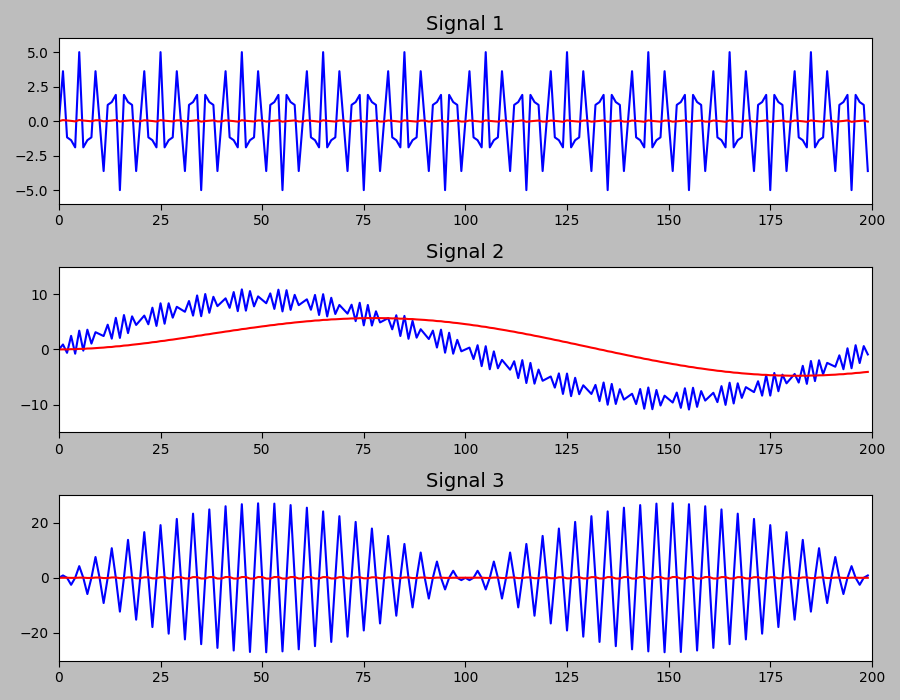
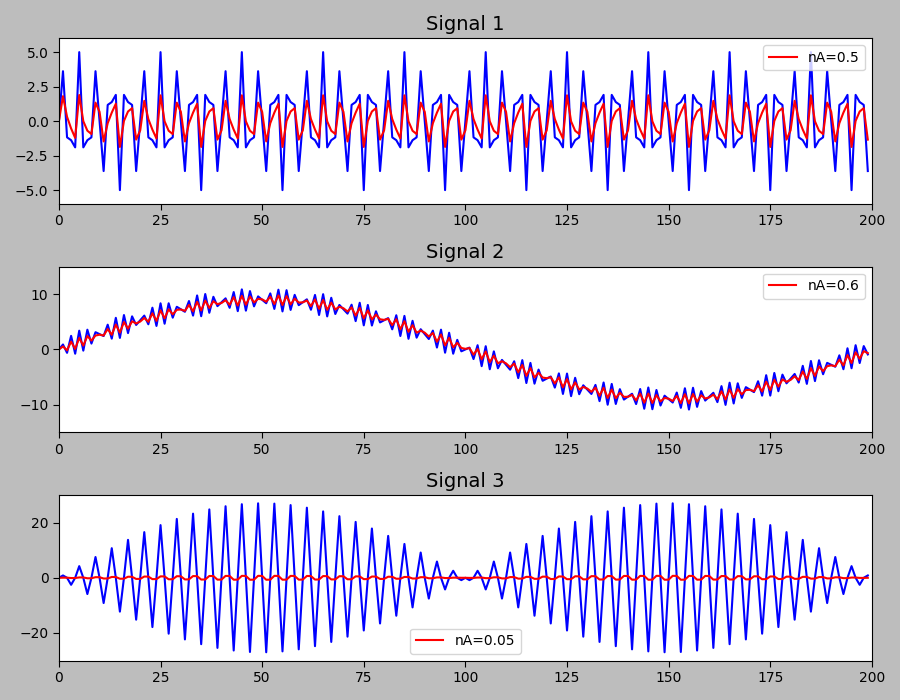
update

diff --git a/Proyecto01/src/problema2.py b/Proyecto01/src/problema2.py
@@ -19,21 +19,19 @@ aS = [
   ]
 
 def Filter_Comp(aV, nA):
-  aF = np.zeros_like(aV)
-  aF[0] = aV[0]
-  limit = min(len(aV), nMAX)
-  for i in range(1, limit):
-    aF[i] = nA * aV[i] + (1.0 - nA) * aF[i-1]
-  return aF
+    aF = np.zeros_like(aV)
+    aF[0] = aV[0]
+    for i in range(1, nMAX):
+        aF[i] = nA * aV[i] + (1.0 - nA) * aF[i-1]
+    return aF
 
 def main(save_images=True):
   images_dir = os.path.join(os.path.dirname(__file__), 'ImagesRepo')
   os.makedirs(images_dir, exist_ok=True)
+  # Define un nA diferente para cada señal
+  nAs = [0.5, 0.6, 0.05]
 
-  # Choose a smoothing factor (nA) for the complementary filter
-  nA = 0.02
-
-  # Mostrar las 3 señales en una sola ventana, con estilo similar al ejemplo
+  # Mostrar las 3 señales en una sola ventana 
   fig, axs = plt.subplots(3, 1, figsize=(9, 7))
   fig.patch.set_facecolor('#bdbdbd')  # fondo gris
 
@@ -41,20 +39,23 @@ def main(save_images=True):
   titles = ['Signal 1', 'Signal 2', 'Signal 3']
 
   for idx, sig in enumerate(aS):
+    nA = nAs[idx]
     filt = Filter_Comp(sig, nA)
     ax = axs[idx]
     ax.set_facecolor('white')
     muestras = np.arange(200)
     ax.plot(muestras, sig[:200], '-b')
-    ax.plot(muestras, filt[:200], '-r')
+    ax.plot(muestras, filt[:200], '-r', label=f'nA={nA}')
     ax.set_title(titles[idx], pad=6, fontsize=14)
     ax.set_xlim(0, 200)
     ax.set_ylim(ylims[idx])
     ax.tick_params(axis='both', which='both', length=4)
+    ax.legend()
 
   plt.tight_layout()
   if save_images:
     plt.savefig(os.path.join(images_dir, 'Problema2_todas_senales.png'))
+  plt.show()
   plt.show()
 
 if __name__ == '__main__':
